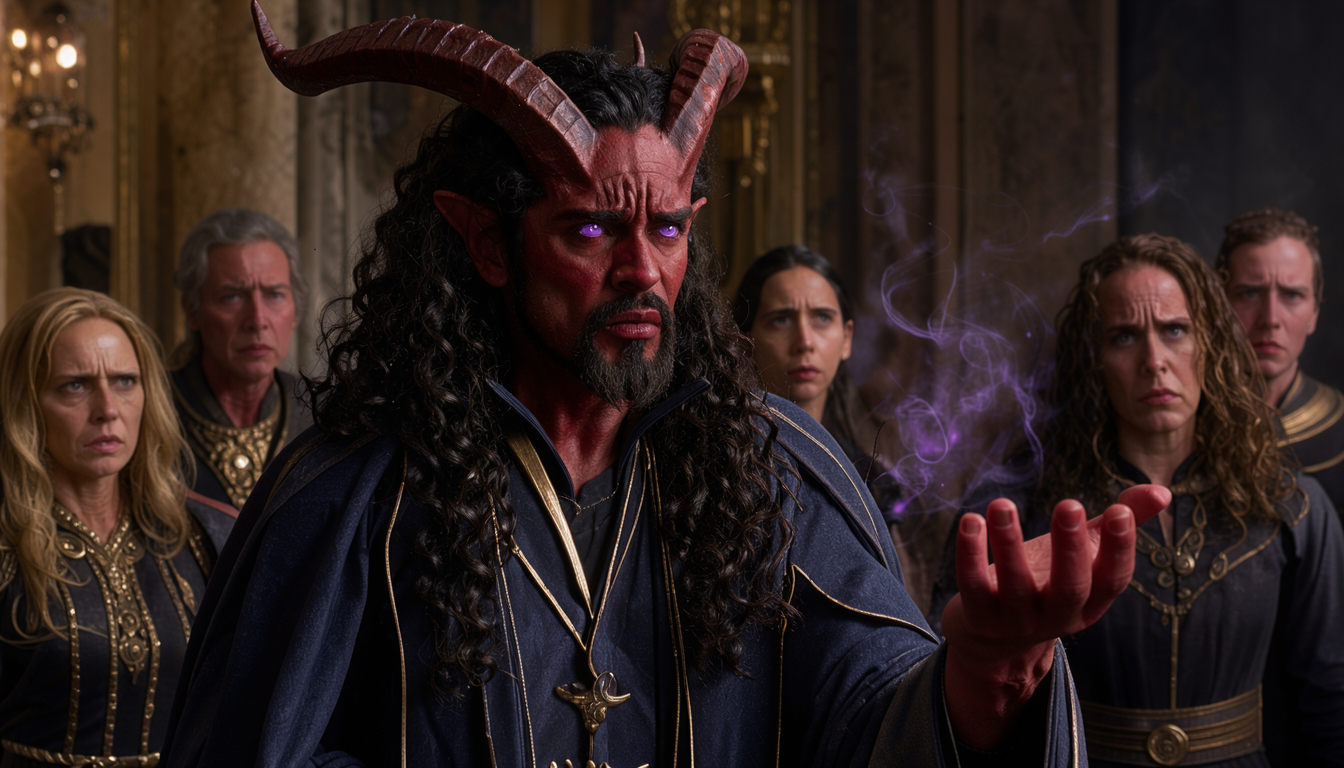
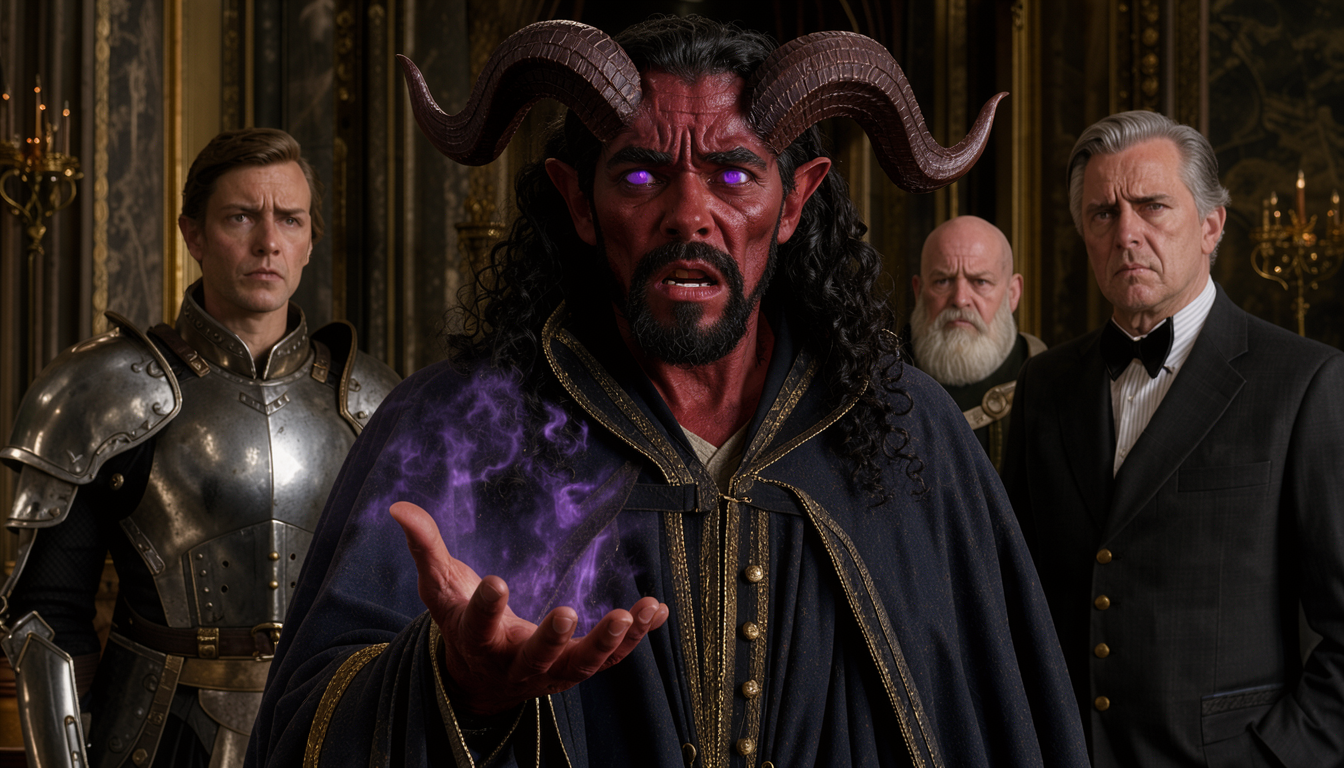
session01: approve P5.3 locked cast (no strangers) + mansion-canon rule

diff --git a/sessions/session01/script.md b/sessions/session01/script.md
@@ -2,6 +2,7 @@
 Source: sessions/session01/transcript.txt (69a905e, 69k chars)
 Style: approved S1P1 v7 + character-bible/bible.md. 5 pages, 20 panels. Narration + trimmed transcript dialogue.
 CANON (user 2026-11-03): Chip is OFF ON HIS OWN all session (solo thread P4.1–P4.4 + P5.5 apothecary). He appears in NO party scene — not the tavern, not the job board, not the chase, not the mansion. Five-strong party everywhere else.
+CANON (user 2026-11-03): the mansion holds ONLY the party-minus-Chip plus Biggins (as butler) and Lilly (as Filvenar) — eleven named souls, no strangers, no background occupants in any mansion panel.
 
 ## PAGE 1 — MARIGOLD'S INN
 **P1.1 — ESTABLISH.** Warm tavern interior, Marigold's Inn sign. Party around table eating/drinking.
